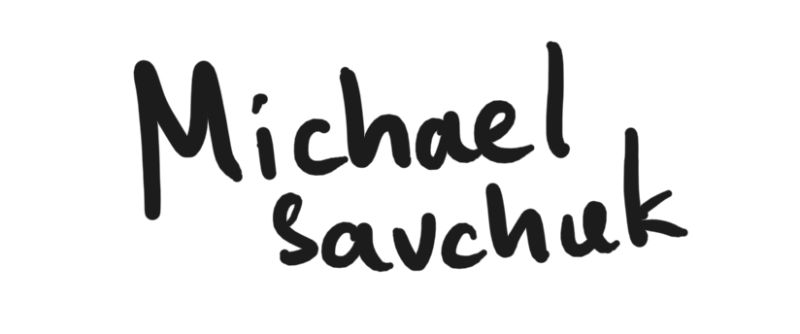
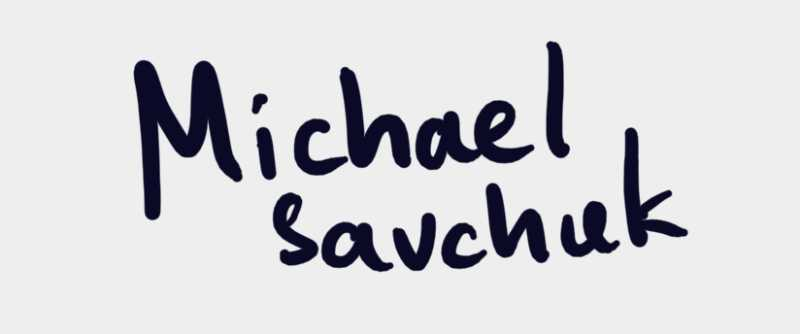
Update images and colors

diff --git a/src/styles/_vars.scss b/src/styles/_vars.scss
@@ -1,7 +1,7 @@
 :root {
-  --c-forest-green: #123F3C;
-  --c-white: white;
-  --c-background: #cad3cd;
-  --c-notebook: #FBEBC4;
+  --c-forest-green: #1b5f5b;
+  --c-white: rgb(238, 238, 238);
+  --c-background: #bbcccb;
+  --c-notebook: #f8e0b2;
   --grid-size: 1.5em;
 }

diff --git a/index.html b/index.html
@@ -37,8 +37,8 @@
 				./assets/images/workin-in-a-coffee-shop@2x.jpg 2x
 			"
 			width="800"
-			height="1007"
-			style="aspect-ratio: 800 / 1007"
+			height="954"
+			style="aspect-ratio: 800 / 954"
 			data-tidy
 		>
 		<main class="notebook-page" data-tidy>
